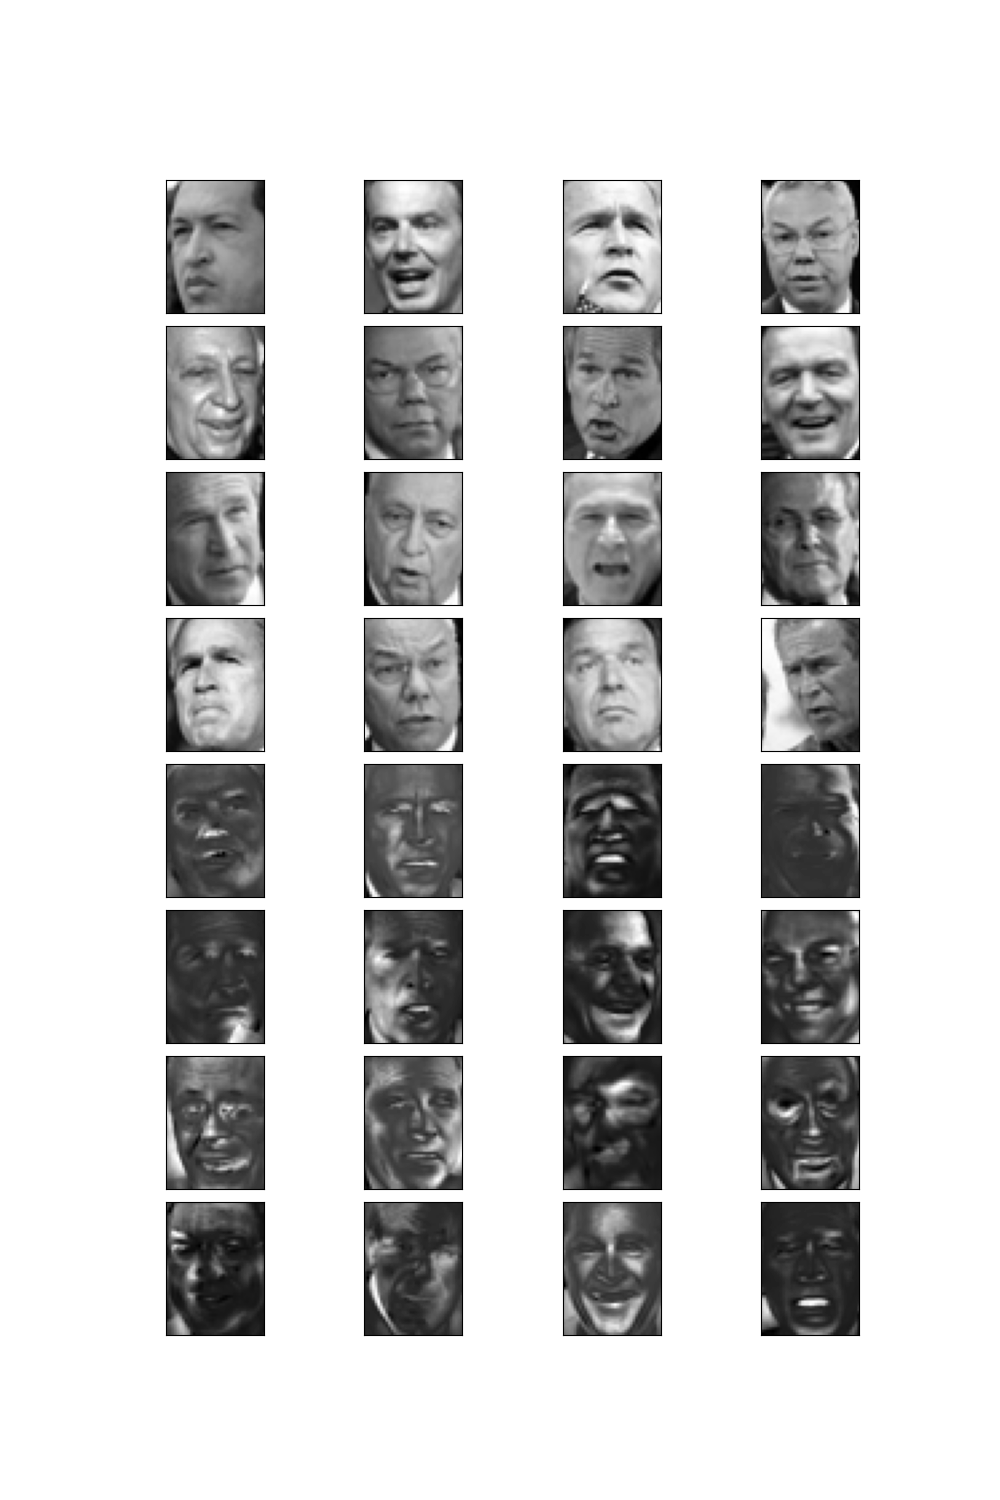
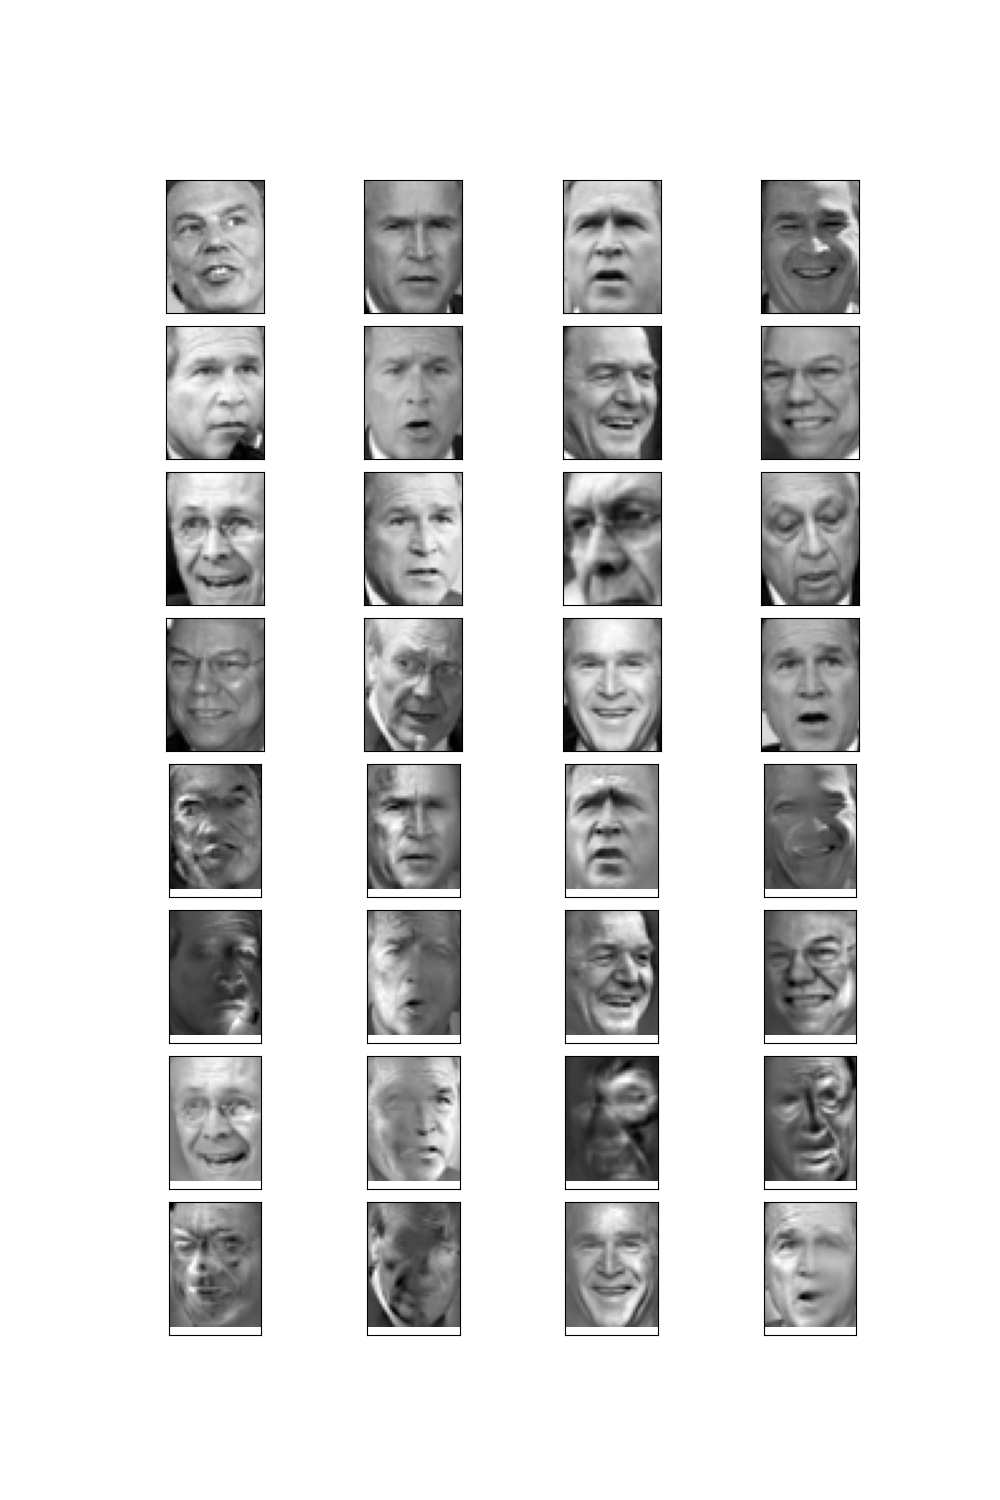
d

diff --git a/eigen_faces/project/templates/main.html b/eigen_faces/project/templates/main.html
@@ -87,7 +87,7 @@
 
 
 <div style="display: flex; justify-content: center; align-items: center; height: 100vh;">
-    <img id="modified" width="1200" height="1200">
+    <img id="modified" width="1200" height="1500">
 </div>
 
 

diff --git a/eigen_faces/project/functions.py b/eigen_faces/project/functions.py
@@ -108,7 +108,7 @@ def eigenFaces(num_components,variance,ds):
     
     # Select the first 10 images from the array
     # Get the first 16 original and reconstructed images
-    first_16_original_images = X[:16]
+    first_16_original_images = X_train[:16]
     first_16_reconstructed_images = X_reconstructed[:16]
 
     # Create a subplot with 8 rows and 4 columns (2 sets of 4x4 images)
@@ -124,6 +124,8 @@ def eigenFaces(num_components,variance,ds):
         # Display the original image in the top 4 rows and the reconstructed image in the bottom 4 rows
         axes[i // 4, i % 4].imshow(original_image_2D.real, cmap='gray')
         axes[i // 4 + 4, i % 4].imshow(reconstructed_image_2D.real, cmap='gray')
+        
+       
 
 # Save the figure
 
